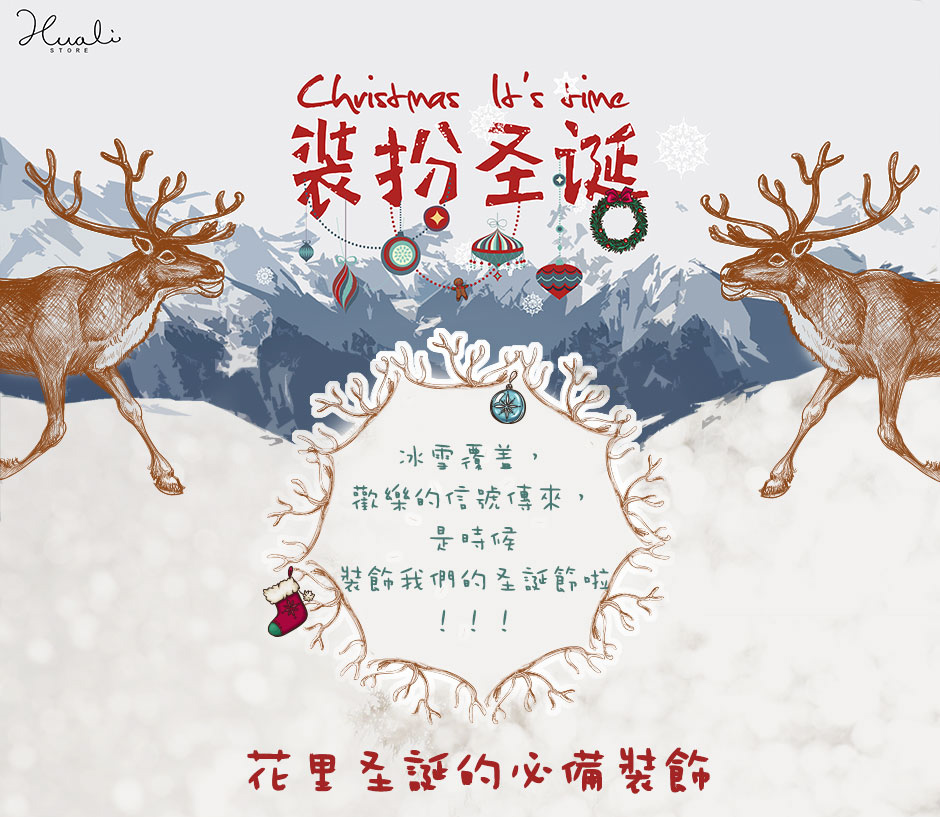
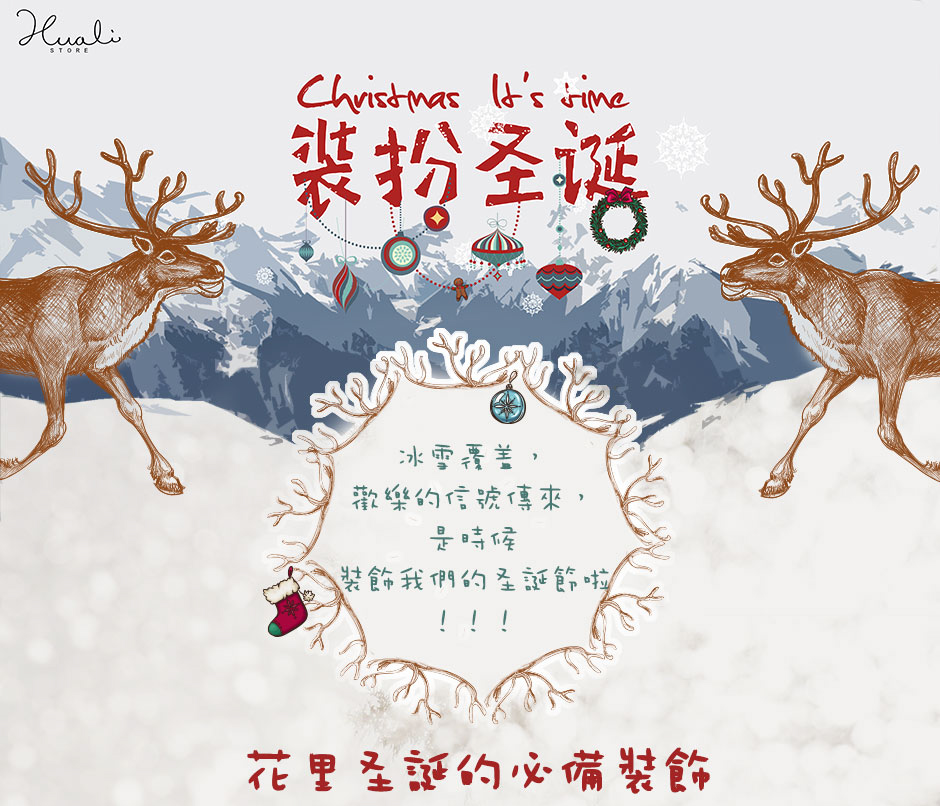
Modified christmas campaign page, suit for mobile now

Changed region(s): [[0.0, 0.0931, 1.0, 0.9926], [0.0309, 0.031, 0.1234, 0.062]]

diff --git a/app/assets/stylesheets/modules/christmas.sass b/app/assets/stylesheets/modules/christmas.sass
@@ -2,12 +2,58 @@
   margin-top: 15px
   min-height: 560px
 
-  img
-    float: left
+  .product_list
+    position: relative
+    a
+      position: absolute
+      display: block
 
-  .candle_holder
-    .left, .right
-      margin: 0
-    .left
-      width: 648px
+  #product_list_one
+    .link_1
+      width: 35%
+      height: 100%
+    .link_2
+      left: 35%
+      top: 50%
+      width: 65%
+      height: 50%
 
+  #product_list_two
+    .link_1
+      width: 68%
+      height: 50%
+    .link_2
+      left: 68%
+      width: 32%
+      height: 100%
+    .link_3
+      width: 68%
+      height: 50%
+      top: 50%
+
+  #product_list_three
+    .link_1
+      top: 22%
+      left: 12%
+      width: 25%
+      height: 35%
+    .link_2
+      top: 22%
+      left: 37%
+      width: 25%
+      height: 35%
+    .link_3
+      top: 22%
+      left: 62%
+      width: 26%
+      height: 35%
+    .link_4
+      top: 62%
+      left: 12%
+      width: 25%
+      height: 35%
+    .link_5
+      top: 62%
+      left: 37%
+      width: 25%
+      height: 35%

diff --git a/app/assets/stylesheets/mobile.sass b/app/assets/stylesheets/mobile.sass
@@ -39,3 +39,4 @@
 @import modules/partials/banner
 @import modules/mobile-didi-passengers
 @import modules/single-page-mobile
+@import modules/christmas
